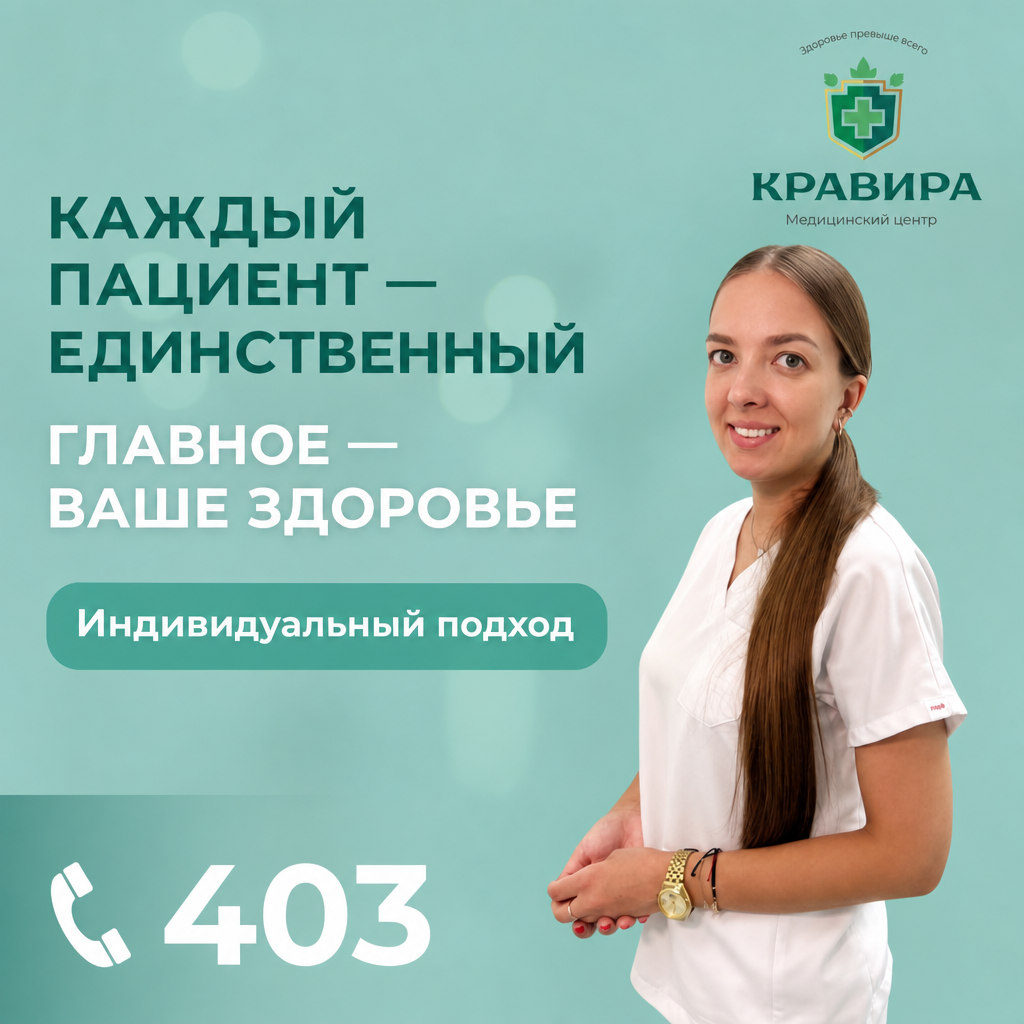
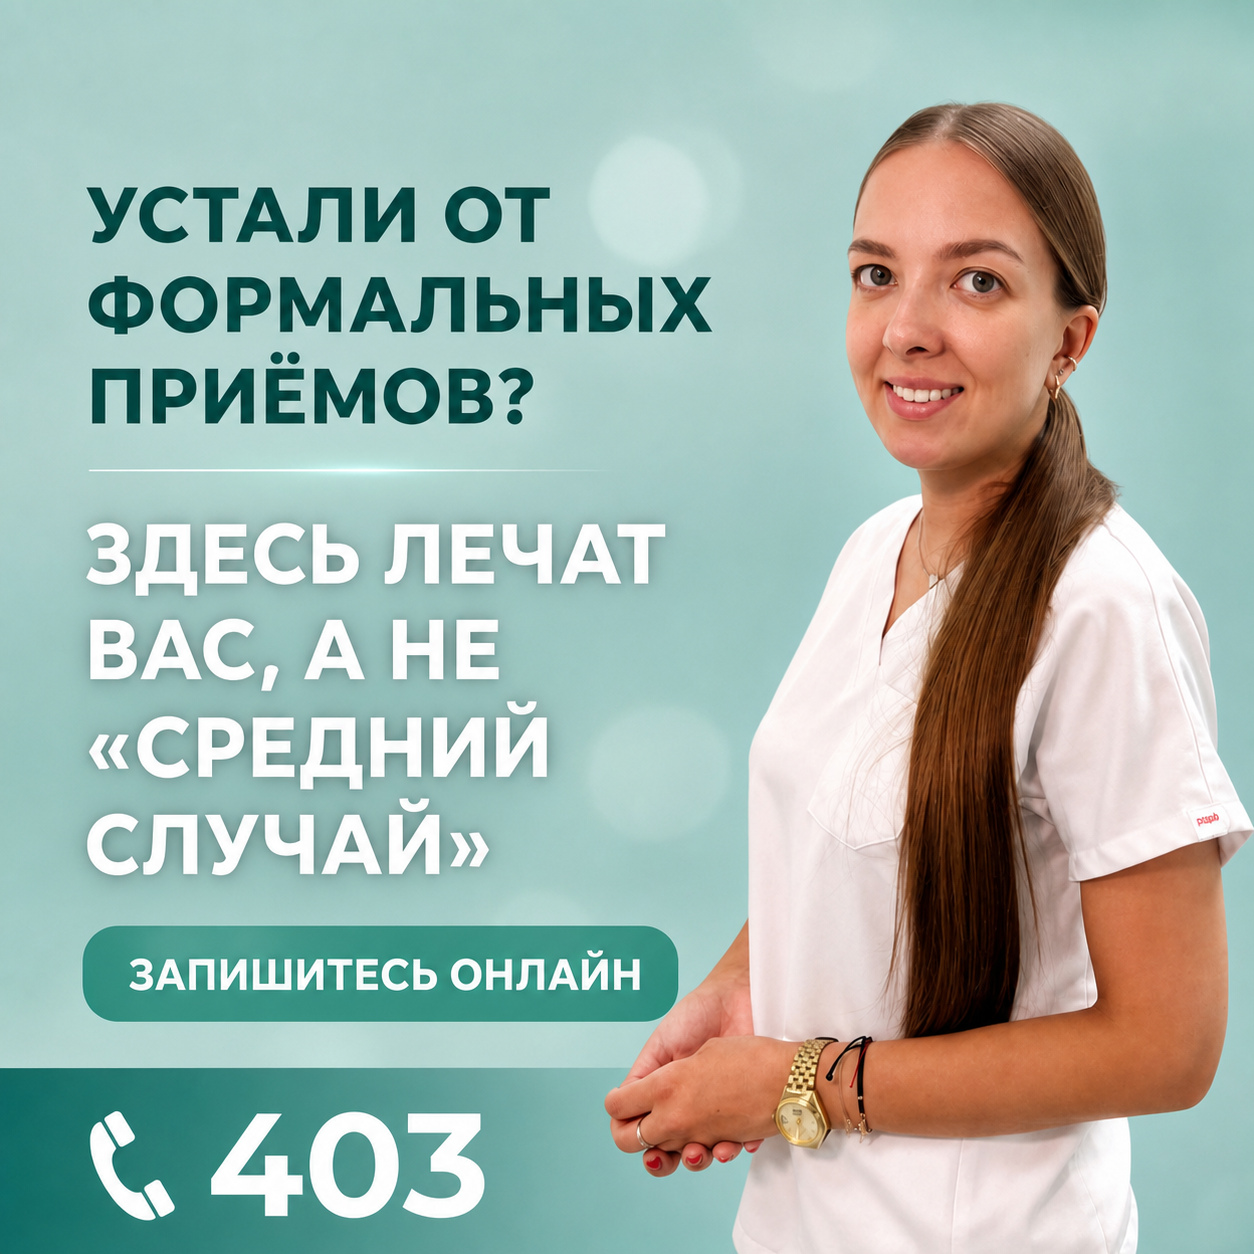
Refresh Kravira ad creatives with direct-response copy

diff --git a/scripts/build_ad_banners.py b/scripts/build_ad_banners.py
@@ -1,7 +1,8 @@
-"""Сборка финальных баннеров из эталона v2-стиля.
+"""Сборка финальных баннеров Кравиры.
 
-Берёт AI-эталоны стиля, убирает нарисованное лого, ставит прозрачный
-`image/brand/logo_transparent.png`, заменяет длинное тире на короткое `–`.
+Исходники уже содержат утверждённую композицию «триггер → решение → действие».
+Скрипт нормализует размер и добавляет официальный знак как ненавязчивый
+полупрозрачный элемент фона, не перекрывающий врача или рекламный текст.
 
 Запуск:
     source .venv/bin/activate
@@ -12,167 +13,54 @@ from __future__ import annotations
 
 from pathlib import Path
 
-import numpy as np
-from PIL import Image, ImageDraw, ImageFilter, ImageFont
+from PIL import Image
 
 ROOT = Path(__file__).resolve().parents[1]
-ASSETS = Path.home() / ".cursor/projects/Users-pavelkuzauka-Cursor-Folders-Meta/assets"
 OUT = ROOT / "image" / "concepts"
 BRAND = ROOT / "image" / "brand"
-FONTS = ROOT / "assets" / "fonts"
-LOGO = BRAND / "logo_transparent.png"
+WATERMARK = ROOT / "image" / "logo_circle.png"
 
-# Локальные копии эталонов (если assets недоступны, кладём источники в image/brand/sources)
 SOURCES = {
-    "final_1_unique.jpg": [
-        ASSETS / "kravira_v2_concept_1_unique.jpg",
-        BRAND / "sources" / "kravira_v2_concept_1_unique.jpg",
-    ],
-    "final_2_health.jpg": [
-        ASSETS / "kravira_v2_concept_2_health.jpg",
-        BRAND / "sources" / "kravira_v2_concept_2_health.jpg",
-    ],
-    "final_3_hear.jpg": [
-        ASSETS / "kravira_v2_concept_3_hear.jpg",
-        BRAND / "sources" / "kravira_v2_concept_3_hear.jpg",
-    ],
-}
-
-DASH_SPECS = {
-    "final_1_unique.jpg": [
-        {"region": (400, 270, 560, 340), "mode": "dark", "size": 54},
-        {"region": (340, 440, 470, 510), "mode": "white", "size": 50},
-    ],
-    "final_2_health.jpg": [
-        {"region": (600, 280, 760, 350), "mode": "dark", "size": 50},
-    ],
-    "final_3_hear.jpg": [],
+    "final_1_unique.jpg": BRAND / "sources" / "kravira_v2_concept_1_unique.jpg",
+    "final_2_health.jpg": BRAND / "sources" / "kravira_v2_concept_2_health.jpg",
+    "final_3_hear.jpg": BRAND / "sources" / "kravira_v2_concept_3_hear.jpg",
 }
 
 
-def resolve_source(candidates: list[Path]) -> Path:
-    for p in candidates:
-        if p.exists():
-            return p
-    raise FileNotFoundError(f"Source not found among: {candidates}")
-
-
-def cover_logo(im: Image.Image) -> Image.Image:
-    """Remove the AI logo without leaving a rectangular backing.
-
-    Fit a smooth colour plane to clean nearby background pixels and blend it
-    over the complete old-logo area. Only the outer six pixels are feathered,
-    so neither the original wordmark nor a hard-edged patch remains.
-    """
-    source = np.array(im.convert("RGB"), dtype=float)
-    h, w, _ = source.shape
-    points: list[list[float]] = []
-    colours: list[np.ndarray] = []
-
-    for y in range(0, int(h * 0.27), 3):
-        for x in range(int(w * 0.48), int(w * 0.62), 3):
-            points.append([x / w, y / h, 1.0])
-            colours.append(source[y, x])
-    for y in range(0, int(h * 0.025), 2):
-        for x in range(int(w * 0.25), int(w * 0.98), 3):
-            points.append([x / w, y / h, 1.0])
-            colours.append(source[y, x])
-
-    coefficients = np.linalg.lstsq(
-        np.asarray(points), np.asarray(colours), rcond=None
-    )[0]
-    yy, xx = np.mgrid[0:h, 0:w]
-    features = np.stack([xx / w, yy / h, np.ones_like(xx)], axis=-1)
-    background = np.clip(features @ coefficients, 0, 255).astype(np.uint8)
-
-    base = Image.fromarray(source.astype(np.uint8), "RGB").convert("RGBA")
-    patch = Image.fromarray(background, "RGB").convert("RGBA")
-    mask = Image.new("L", (w, h), 0)
-    ImageDraw.Draw(mask).rectangle(
-        (int(w * 0.625), -10, w + 10, int(h * 0.258)), fill=255
+def add_background_logo(im: Image.Image) -> Image.Image:
+    """Добавляет официальный знак в свободную верхнюю область как watermark."""
+    base = im.convert("RGBA")
+    mark = Image.open(WATERMARK).convert("RGBA")
+    target_width = int(base.width * 0.16)
+    mark = mark.resize(
+        (target_width, int(mark.height * target_width / mark.width)),
+        Image.Resampling.LANCZOS,
     )
-    mask = mask.filter(ImageFilter.GaussianBlur(6))
-    base.paste(patch, (0, 0), mask)
+    alpha = mark.getchannel("A").point(lambda value: int(value * 0.16))
+    mark.putalpha(alpha)
+    position = ((base.width - mark.width) // 2, 24)
+    base.alpha_composite(mark, position)
     return base.convert("RGB")
 
 
-def paste_transparent_logo(im: Image.Image) -> Image.Image:
-    logo = Image.open(LOGO).convert("RGBA")
-    im = im.convert("RGBA")
-    w, h = im.size
-    tw = int(w * 0.195)
-    lr = logo.resize((tw, int(logo.height * tw / logo.width)), Image.Resampling.LANCZOS)
-    im.paste(lr, (w - lr.width - 36, 26), lr)
-    return im.convert("RGB")
-
-
-def overwrite_dash(im: Image.Image, region, mode: str, size: int) -> Image.Image:
-    x0, y0, x1, y1 = region
-    patch = np.array(im.crop((x0, y0, x1, y1)))
-    if mode == "dark":
-        target = np.array([21.0, 90.0, 76.0])
-        dist = np.linalg.norm(patch.astype(float) - target, axis=2)
-        mask = dist < 30
-        fill = (21, 90, 76)
-    else:
-        mask = (patch[..., 0] > 230) & (patch[..., 1] > 230) & (patch[..., 2] > 230)
-        fill = (255, 255, 255)
-
-    h, w = mask.shape
-    best = None
-    for y in range(h):
-        x = 0
-        while x < w:
-            if mask[y, x]:
-                x2 = x
-                while x2 < w and mask[y, x2]:
-                    x2 += 1
-                if x2 - x >= 35:
-                    y2 = y
-                    while y2 < h and mask[y2, x:x2].mean() > 0.5:
-                        y2 += 1
-                    if 3 <= y2 - y <= 14:
-                        cand = (x, y, x2 - x, y2 - y)
-                        if best is None or cand[2] > best[2]:
-                            best = cand
-                x = x2
-            else:
-                x += 1
-    if not best:
-        return im
-
-    bx, by, bw, bh = best
-    ax, ay = x0 + bx, y0 + by
-    draw = ImageDraw.Draw(im)
-    mint = tuple(
-        int(v)
-        for v in np.array(im.crop((ax, max(0, ay - 12), ax + bw, max(1, ay)))).mean(axis=(0, 1))[:3]
-    )
-    draw.rectangle((ax - 2, ay - 2, ax + bw + 2, ay + bh + 2), fill=mint)
-    font = ImageFont.truetype(str(FONTS / "Montserrat-ExtraBold.ttf"), size)
-    family, _ = font.getname()
-    if family != "Montserrat":
-        raise RuntimeError(f"Expected Montserrat, got {font.getname()}")
-    draw.text((ax, ay - size * 0.35), "–", font=font, fill=fill)
-    return im
-
-
 def build_one(dst_name: str) -> Path:
-    src = resolve_source(SOURCES[dst_name])
-    im = Image.open(src).convert("RGB").resize((1080, 1080), Image.Resampling.LANCZOS)
-    im = cover_logo(im)
-    for spec in DASH_SPECS[dst_name]:
-        im = overwrite_dash(im, spec["region"], spec["mode"], spec["size"])
-    im = paste_transparent_logo(im)
+    source = SOURCES[dst_name]
+    if not source.exists():
+        raise FileNotFoundError(f"Missing source: {source}")
+
+    im = Image.open(source).convert("RGB")
+    im = im.resize((1080, 1080), Image.Resampling.LANCZOS)
+    im = add_background_logo(im)
+
     OUT.mkdir(parents=True, exist_ok=True)
     out = OUT / dst_name
-    im.save(out, quality=95)
+    im.save(out, quality=95, optimize=True, subsampling=0)
     return out
 
 
 def main() -> int:
-    if not LOGO.exists():
-        raise SystemExit(f"Missing transparent logo: {LOGO}")
+    if not WATERMARK.exists():
+        raise SystemExit(f"Missing watermark logo: {WATERMARK}")
     for name in SOURCES:
         path = build_one(name)
         print("saved", path)

diff --git a/docs/CAMPAIGN_PLAN.md b/docs/CAMPAIGN_PLAN.md
@@ -56,11 +56,10 @@ python -m scripts.build_ad_banners
 
 Процесс:
 
-1. Берутся утверждённые исходники серии v2 из `image/brand/sources/`.
-2. Старое AI-лого удаляется вместе со всем словесным знаком.
-3. Фон в этой области восстанавливается плавным цветовым градиентом, рассчитанным по соседним чистым пикселям.
-4. Край восстановления мягко смешивается с исходным фоном – прямоугольной подложки нет.
-5. Накладывается `image/brand/logo_transparent.png` с использованием альфа-канала.
-6. Длинное тире заменяется на короткое `–`.
-7. Для заменяемого текста используется Montserrat ExtraBold.
-8. Композиция, фотографии врачей, телефон `403`, фон и остальные тексты не изменяются.
+1. Берутся утверждённые исходники из `image/brand/sources/`.
+2. Каждый баннер использует структуру «триггер → решение → действие».
+3. Композиция нормализуется до `1080×1080`.
+4. Официальный знак из `image/logo_circle.png` добавляется в свободную верхнюю
+   область как полупрозрачный элемент фона.
+5. Знак не перекрывает врача, рекламный текст или номер `403`.
+6. Финальные изображения сохраняются в JPEG с высоким качеством.

diff --git a/docs/AD_COPY.md b/docs/AD_COPY.md
@@ -27,7 +27,29 @@
 - 3 филиала – 120+ врачей
 - Главное – ваше здоровье
 
-## Финальные баннеры
+## Тексты на финальных баннерах
+
+Структура каждого креатива: **триггер → решение → действие**.
+
+### 1. Индивидуальный подход
+
+- Триггер: **Устали от формальных приёмов?**
+- Решение: **Здесь лечат вас, а не «средний случай»**
+- Действие: **Запишитесь онлайн**
+
+### 2. Главное – здоровье
+
+- Триггер: **Откладываете здоровье на потом?**
+- Решение: **25 лет помогаем вернуть главное**
+- Действие: **Выберите врача и запишитесь**
+
+### 3. Внимание к пациенту
+
+- Триггер: **Вас действительно слышат?**
+- Решение: **Разберёмся вместе и найдём ваш путь к здоровью**
+- Действие: **Начните с консультации**
+
+## Финальные файлы
 
 1. `image/concepts/final_1_unique.jpg`
 2. `image/concepts/final_2_health.jpg`
